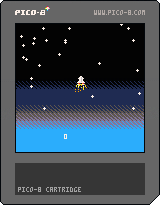
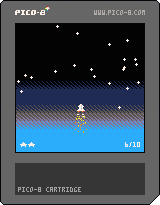
publish 0.2

diff --git a/README.md b/README.md
@@ -4,12 +4,11 @@
 
 _Note: this is still a work in progress._
 
-A clone of the 1973 arcade game [Space Race](https://en.wikipedia.org/wiki/Space_Race_(video_game)), except single-player and with some updated graphics.
+A modern remake of the [classic 1973 arcade game](https://en.wikipedia.org/wiki/Space_Race_(video_game)), except single-player and with updated graphics.
 
-Reach the top of the screen 10 times to win!
+Deliver 10 rockets to orbit to win!
+
+You start out with 3 spare ships. If you lose them all, your private space company will go bankrupt and it's game over.
 
 ## Controls
 Up and down arrow keys - control your spaceship.
-
-## Known Issues
-The asteroids are generated randomly when the cart starts up, which sometimes makes it very hard to reach the top of the screen. If you are finding it particularly difficult/impossible to make it past a cluster of asteroids, try resetting the cart to get a new random set of asteroids.
